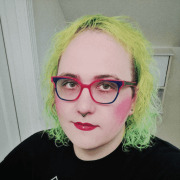
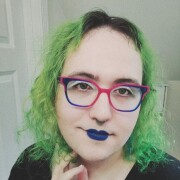
update image

diff --git a/src/_data/photoVersion.js b/src/_data/photoVersion.js
@@ -1,1 +1,1 @@
-module.exports = 102;
+module.exports = 103;
